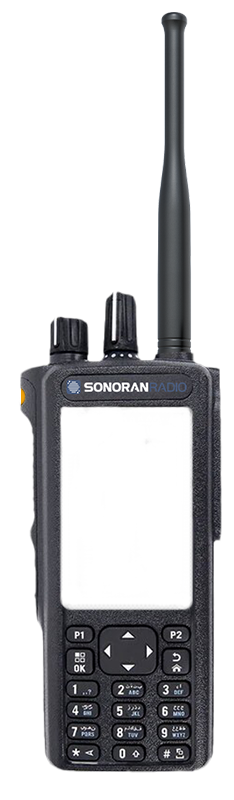
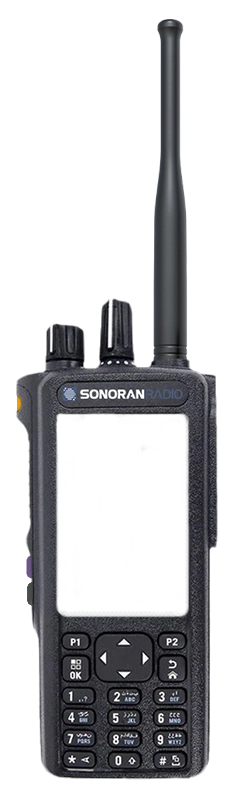
feat: portable radio hide buttons

Changed region(s): [[0.0598, 0.0, 0.9573, 1.0]]

diff --git a/src/App.vue b/src/App.vue
@@ -129,9 +129,6 @@ export default {
         showMobileRadio() {
             return this.showRadio && this.inVehicle;
         },
-        stateFreqName() {
-            return this.$store.getters.freqName;
-        },
         activeFrames() {
             if (!this.curSkin) return; // no skin for the frames
 
@@ -200,10 +197,6 @@ export default {
         },
     },
     watch: {
-        stateFreqName(newVal) {
-            if (!this.$store.state.connected) return;
-            this.notifyPlayer("Channel: ~y~" + newVal || 'Custom Frequency');
-        },
         skinNames() {
             this.updateAvailableSkins();
         }
@@ -477,9 +470,15 @@ export default {
         escapeRadio(hide) {
             this.postClient({ type: 'escape' });
             if (hide) this.showRadio = false;
+
+            // notify player on how to hide radio if this is the first time
+            const LS_KEY = 'hide_portable_hint_seen';
+            if (hide || this.inVehicle || localStorage.getItem(LS_KEY)) return;
+            this.notifyPlayer('~g~HINT~s~: Use ~y~/radio hide~s~ or press the ~p~purple button~s~ to hide the radio');
+            localStorage.setItem(LS_KEY, 'true');
         },
-        notifyPlayer(message, ignorestate) {
-            if (this.radioPower || ignorestate) this.postClient({ type: "notify", message: message });
+        notifyPlayer(message) {
+            this.postClient({ type: "notify", message: message });
         },
         updateGamestate() {
             this.sendToSocket({
@@ -560,16 +559,12 @@ export default {
         buttonPrev() {
             if (!this.$store.state.connected)
                 return void this.notifyPlayer("Radio: ~r~Not Connected")
-            if (this.$store.getters.sublvl == 0)
-                return void this.notifyPlayer("Radio: ~r~Button Disabled (Free Mode)")
             this.notifyPlayer("Radio: ~y~Prev Preset");
             this.prevPreset();
         },
         buttonNext() {
             if (!this.$store.state.connected)
                 return void this.notifyPlayer("Radio: ~r~Not Connected")
-            if (this.$store.getters.sublvl == 0)
-                return void this.notifyPlayer("Radio: ~r~Button Disabled (Free Mode)")
             this.notifyPlayer("Radio: ~y~Next Preset");
             this.nextPreset();
         },
@@ -583,7 +578,7 @@ export default {
                 type: 'power',
                 power: this.radioPower
             });
-            this.notifyPlayer("Radio: " + (this.radioPower ? "~g~On~g~" : "~r~Off~r~"), true);
+            this.notifyPlayer("Radio: " + (this.radioPower ? "~g~On~g~" : "~r~Off~r~"));
         },
         setEmergencyCall(enabled, displayName, cmd) {
             const enable = enabled === 'toggle' ? !this.emergencyCall.open : !!enabled;

diff --git a/src/components/util/DraggableBox.vue b/src/components/util/DraggableBox.vue
@@ -94,10 +94,6 @@ export default {
 </script>
 
 <style scoped>
-.draggable>* {
-  overflow: hidden;
-}
-
 .draggable {
   position: fixed;
 }
